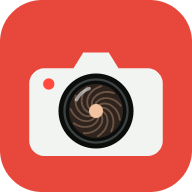
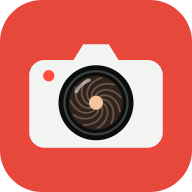
로고 카메라를 아이콘 정중앙으로 맞춤

Changed region(s): [[0.125, 0.2188, 0.875, 0.8125]]

diff --git a/sw.js b/sw.js
@@ -1,5 +1,5 @@
 /* 탈모모니터링Cam 서비스워커: 앱 설치용. 화면 파일만 보관하고 사진은 저장하지 않음 */
-const CACHE = 'tmcam-v7';
+const CACHE = 'tmcam-v8';
 const SHELL = ['./', './index.html', './app.js', './manifest.webmanifest', './icon-192.png', './icon-512.png',
   'https://cdn.jsdelivr.net/npm/peerjs@1.5.4/dist/peerjs.min.js',
   'https://cdn.jsdelivr.net/npm/qrcode-generator@1.4.4/qrcode.js'];
